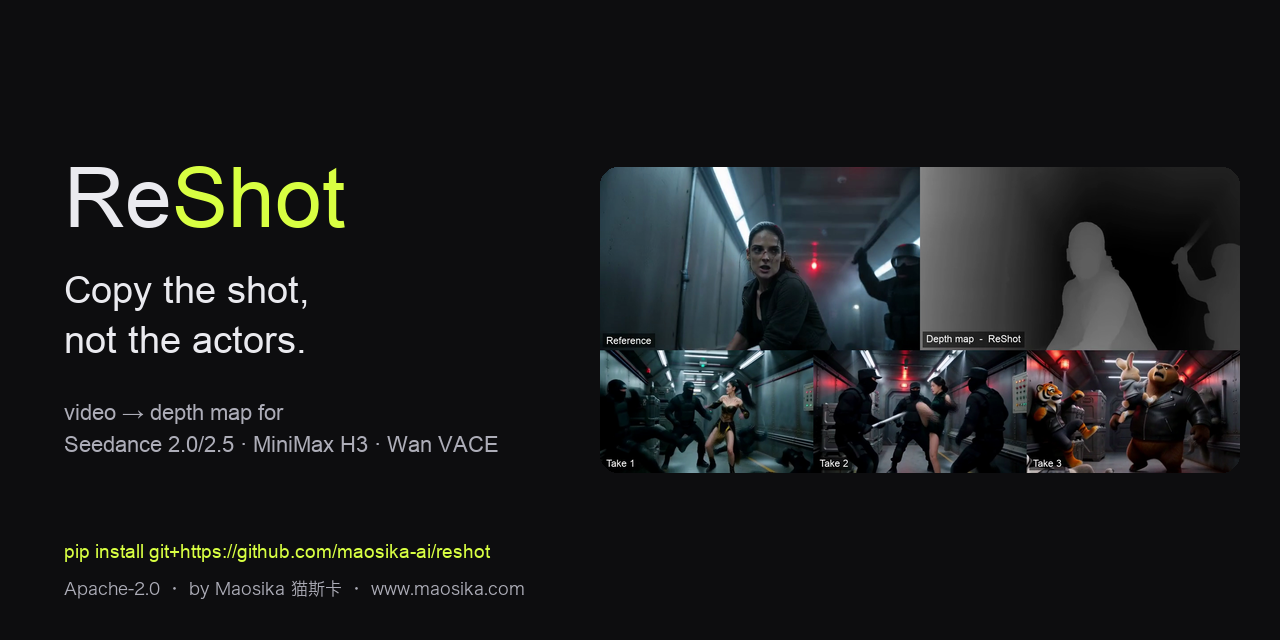
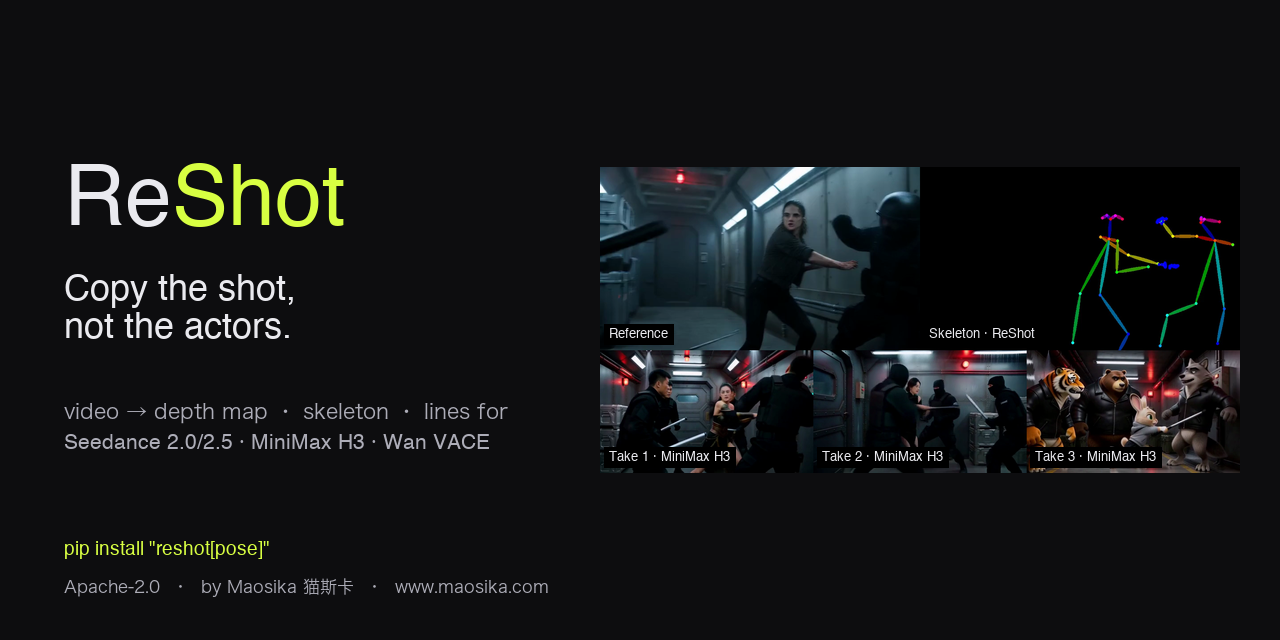
docs: social preview card shows reference → skeleton → three takes; scripts/make_social_preview.py renders it

diff --git a/scripts/make_social_preview.py b/scripts/make_social_preview.py
@@ -1,0 +1,87 @@
+"""Render docs/social-preview.png (1280×640, the card GitHub / X / Slack show for a link).
+
+Left: name, tagline, what it does, install line. Right: one frame of docs/demo-pose.mp4 —
+reference | skeleton on top, the three MiniMax H3 takes below — with small labels.
+
+    python scripts/make_social_preview.py            # writes docs/social-preview.png
+    python scripts/make_social_preview.py --t 4.6    # pick another moment of the demo
+"""
+
+from __future__ import annotations
+
+import argparse
+from pathlib import Path
+
+import cv2
+from PIL import Image, ImageDraw, ImageFont
+
+ROOT = Path(__file__).resolve().parents[1]
+W, H = 1280, 640
+BG, INK, DIM, LIME = (13, 13, 15), (234, 234, 239), (173, 173, 184), (216, 255, 66)
+FONTS = ["/System/Library/Fonts/Helvetica.ttc", "/System/Library/Fonts/Hiragino Sans GB.ttc", "/System/Library/Fonts/Supplemental/Arial Unicode.ttf"]
+
+
+def font(size: int, cjk: bool = False) -> ImageFont.FreeTypeFont:
+    """Helvetica for Latin; Hiragino Sans GB (has arrows and CJK) for lines that need them."""
+    for f in (FONTS[1:] if cjk else FONTS):
+        try:
+            return ImageFont.truetype(f, size)
+        except OSError:
+            continue
+    return ImageFont.load_default()
+
+
+def demo_frame(t: float) -> Image.Image:
+    cap = cv2.VideoCapture(str(ROOT / "docs/demo-pose.mp4"))
+    cap.set(cv2.CAP_PROP_POS_FRAMES, int(t * 24))
+    ok, bgr = cap.read()
+    cap.release()
+    if not ok:
+        raise SystemExit("cannot read docs/demo-pose.mp4")
+    return Image.fromarray(cv2.cvtColor(bgr, cv2.COLOR_BGR2RGB))
+
+
+def label(draw: ImageDraw.ImageDraw, xy: tuple[int, int], text: str) -> None:
+    f = font(13)
+    tw = draw.textlength(text, font=f)
+    x, y = xy
+    draw.rectangle([x, y, x + tw + 10, y + 20], fill=(0, 0, 0))
+    draw.text((x + 5, y + 3), text, font=f, fill=INK)
+
+
+def main() -> None:
+    ap = argparse.ArgumentParser()
+    ap.add_argument("--t", type=float, default=2.6, help="second of the demo to show")
+    ap.add_argument("--out", type=Path, default=ROOT / "docs/social-preview.png")
+    a = ap.parse_args()
+
+    img = Image.new("RGB", (W, H), BG)
+    d = ImageDraw.Draw(img)
+    x = 64
+    d.text((x, 160), "Re", font=font(84), fill=INK)
+    d.text((x + d.textlength("Re", font=font(84)), 160), "Shot", font=font(84), fill=LIME)
+    d.text((x, 272), "Copy the shot,\nnot the actors.", font=font(36), fill=INK, spacing=10)
+    d.text((x, 400), "video → depth map · skeleton · lines for", font=font(21, cjk=True), fill=DIM)
+    d.text((x, 432), "Seedance 2.0/2.5 · MiniMax H3 · Wan VACE", font=font(21), fill=DIM)
+    d.text((x, 540), 'pip install "reshot[pose]"', font=font(19), fill=LIME)
+    d.text((x, 578), "Apache-2.0  ·  by Maosika 猫斯卡  ·  www.maosika.com", font=font(17, cjk=True), fill=DIM)
+
+    frame = demo_frame(a.t)  # 1440×688 → fit into 640×306 on the right
+    pw = 640
+    ph = round(frame.height * pw / frame.width)
+    frame = frame.resize((pw, ph), Image.LANCZOS)
+    px, py = W - pw - 40, (H - ph) // 2
+    img.paste(frame, (px, py))
+    d = ImageDraw.Draw(img)
+    top_h = round(412 * pw / 1440)
+    label(d, (px + 4, py + top_h - 26), "Reference")
+    label(d, (px + pw // 2 + 4, py + top_h - 26), "Skeleton · ReShot")
+    for i in range(3):
+        label(d, (px + i * pw // 3 + 4, py + ph - 26), f"Take {i + 1} · MiniMax H3")
+    a.out.parent.mkdir(parents=True, exist_ok=True)
+    img.save(a.out, optimize=True)
+    print("wrote", a.out, img.size)
+
+
+if __name__ == "__main__":
+    main()
